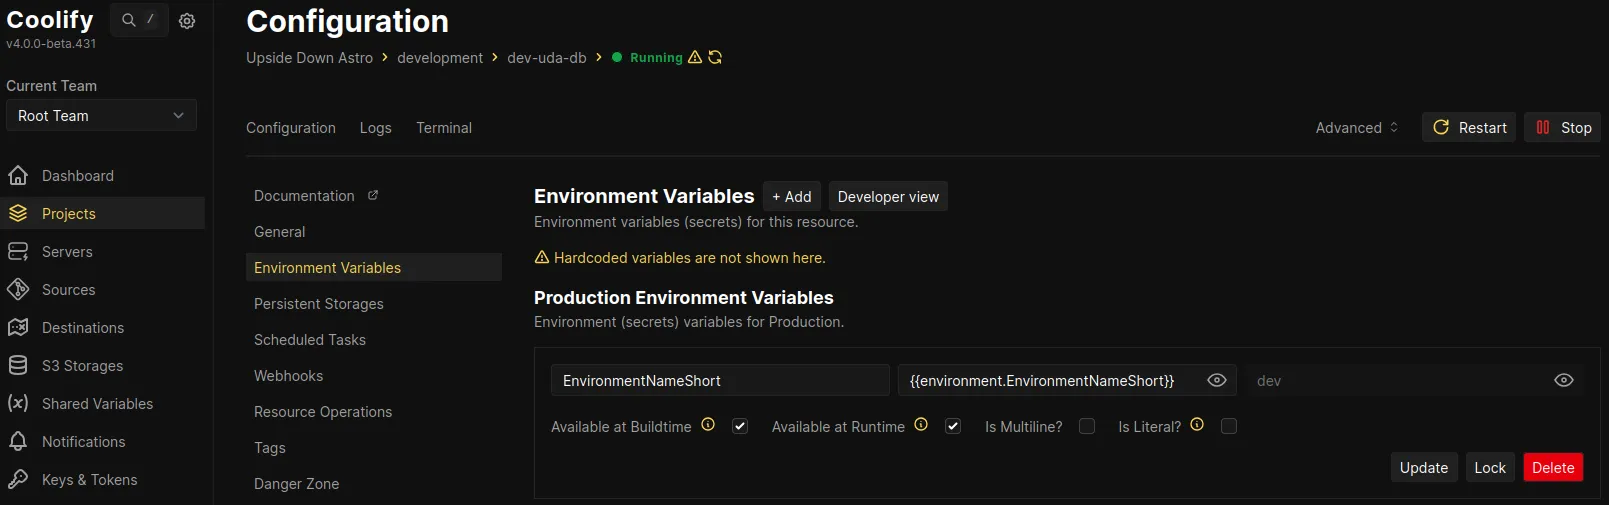
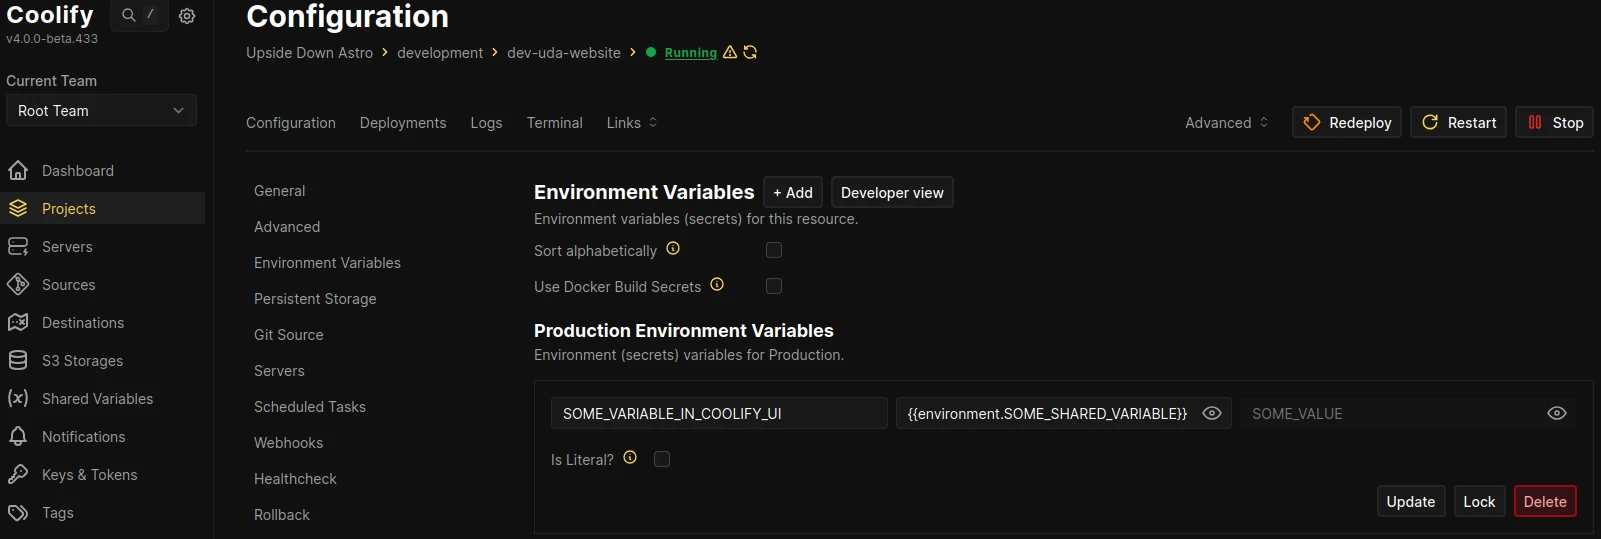
Fixed example image and added additional text explaining the value being seen

diff --git a/docs/knowledge-base/docker/compose.md b/docs/knowledge-base/docker/compose.md
@@ -138,7 +138,7 @@ If in developer view, you can enter it like so;
 SOME_VARIABLE_IN_COOLIFY_UI={{environment.SOME_SHARED_VARIABLE}}
 ```
 
-Or in the normal view, the Name is what's referenced in the Docker Compose file `SOME_VARIABLE_IN_COOLIFY_UI` with the Value being the referenced environment variable `{{environment.SOME_SHARED_VARIABLE}}` as seen below. Once saved if correct, you'll see there's a third text box, if you reveal this, you should be able to see the true value.
+Or in the normal view, the Name is what's referenced in the Docker Compose file `SOME_VARIABLE_IN_COOLIFY_UI` with the Value being the referenced environment variable `{{environment.SOME_SHARED_VARIABLE}}` as seen below. Once saved if correct, you'll see there's a third text box, if you reveal this, you should be able to see the true value, in this case `SOME_VALUE`.
 
 <ZoomableImage src="/docs/images/knowledge-base/compose/2.webp" />
 
